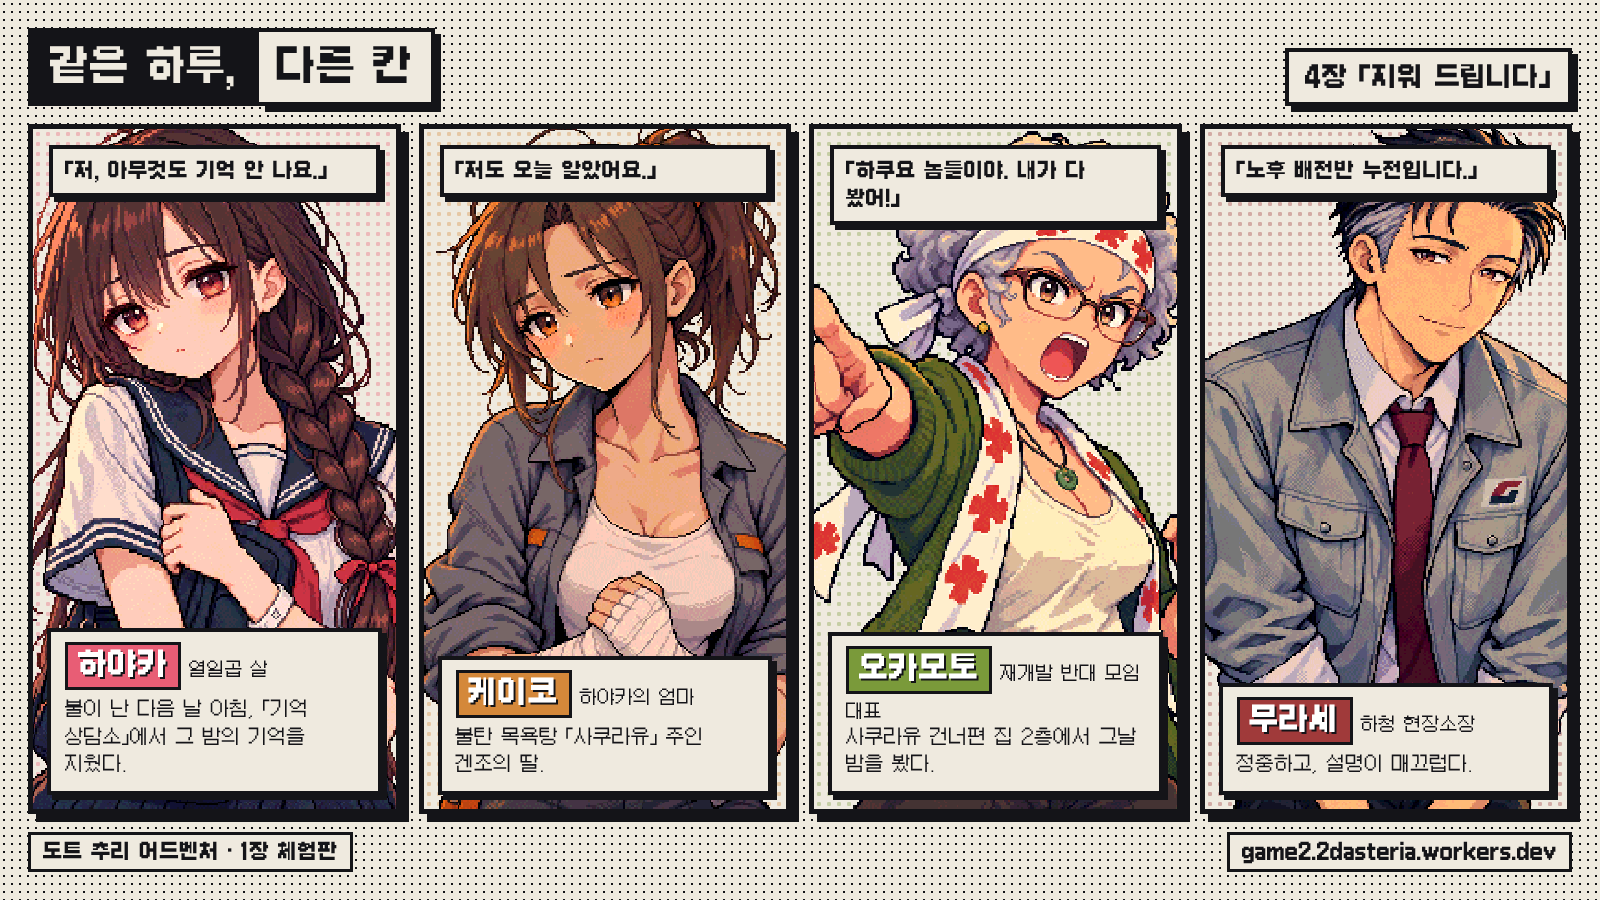
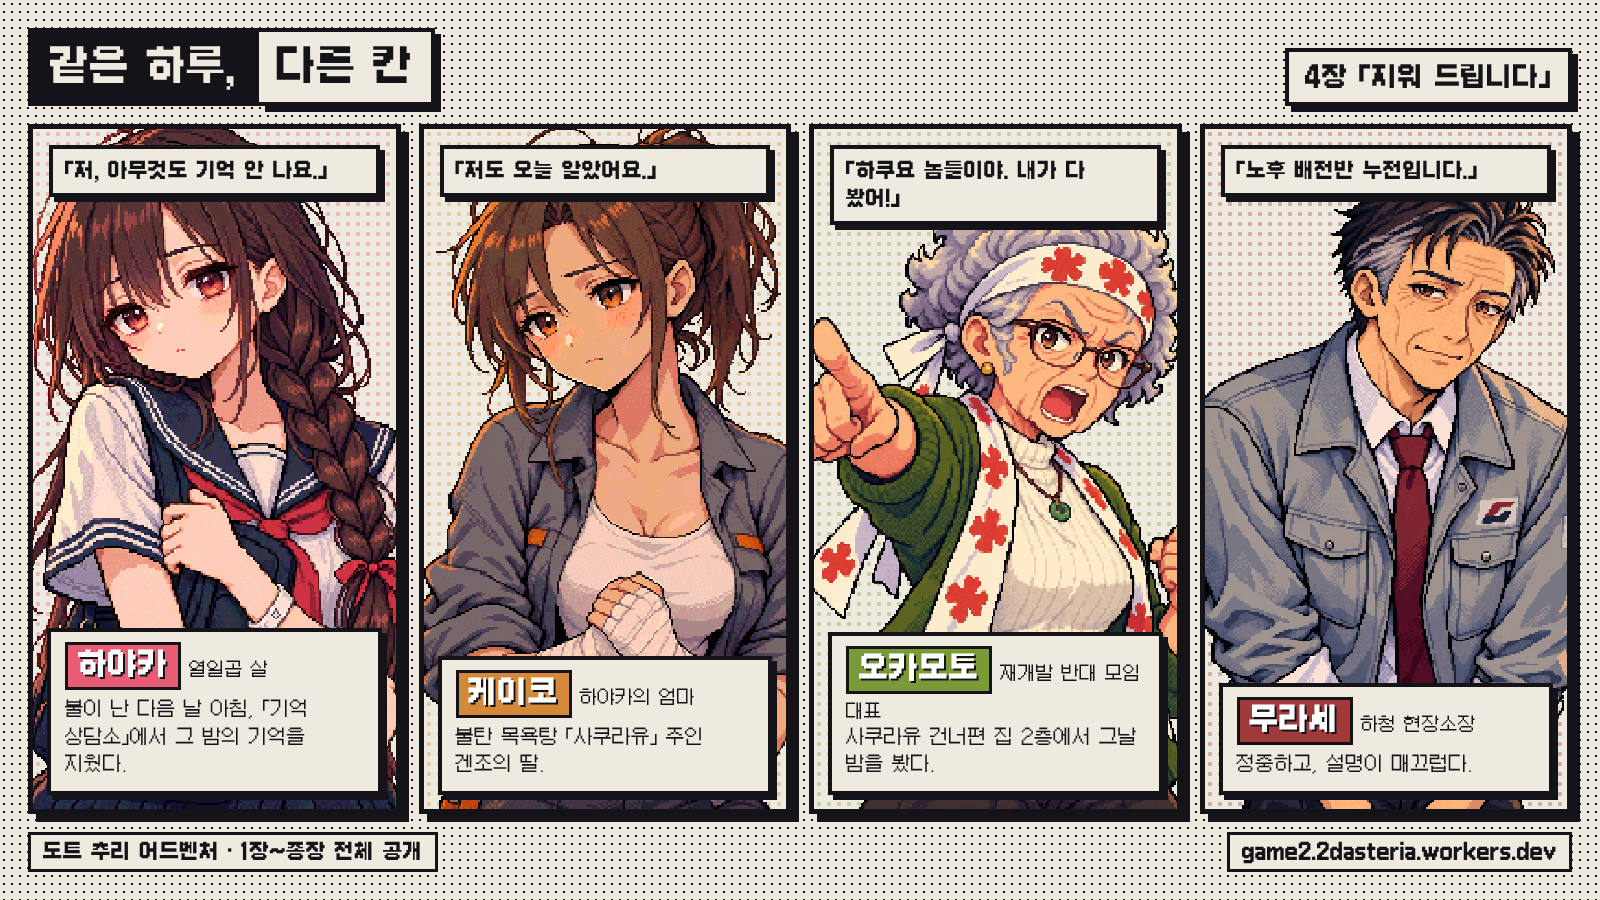
docs: 홍보글 전체 공개로, 가볍게 / 인물 소개 이미지 아래줄 '전체 공개'
Claude-Session: https://claude.ai/code/session_01Eau5AueyeKfEKTxNRbKjxr

diff --git a/promo/cast.html b/promo/cast.html
@@ -122,6 +122,6 @@ document.getElementById('page').innerHTML = `
         <div class="cap"><b>${name}</b><em>${role}</em><p>${desc}</p></div>
       </div>`).join('')}
   </div>
-  <footer><span>도트 추리 어드벤처 · 1장 체험판</span><span>game2.2dasteria.workers.dev</span></footer>`;
+  <footer><span>도트 추리 어드벤처 · 1장~종장 전체 공개</span><span>game2.2dasteria.workers.dev</span></footer>`;
 </script>
 </body>

diff --git a/promo/POST.md b/promo/POST.md
@@ -1,47 +1,45 @@
 # 홍보글
 
-## 짧은 버전 (트위터·X, 디스코드)
+## 짧은 버전 (X·디스코드)
 
-같은 밤을 기억하는 사람들의 "컷"이 서로 다르다.
-도트 추리 게임 「같은 하루, 다른 칸」 1장 체험판을 공개했습니다.
+혼자 만들던 도트 추리 게임, 끝까지 다 만들었어요 🔍
+「같은 하루, 다른 칸」 1장부터 종장까지 전부 공개!
 
-물건에 남은 잔상을 만화 컷으로 읽고, 순서를 맞추고, 틀린 증언에 컷을 들이밀어 깹니다.
-브라우저에서 바로, 설치 없이 30~60분.
+물건에 남은 기억이 만화 컷으로 보이는 수사관이
+컷 순서 맞추고, 거짓말하는 증인한테 컷 들이밀어서 사건을 풉니다.
 
+브라우저에서 바로 돼요. 폰은 가로로!
 ▶ https://game2.2dasteria.workers.dev/
 
 #인디게임 #추리게임 #도트
 
-(사진: 01_title → 04_trial → 05_puzzle → 06_cutin)
+(사진: 01_title → 07_cast_team → 04_trial → 06_cutin)
 
 ---
 
 ## 긴 버전 (커뮤니티 게시판)
 
-**제목:** [자작 게임] 도트 추리 게임 「같은 하루, 다른 칸」 1장 체험판 공개
+**제목:** 도트 추리 게임 「같은 하루, 다른 칸」 전 장 공개했어요
 
-혼자 만들고 있는 브라우저 추리 게임 1장을 공개합니다.
+안녕하세요, 혼자 만들던 브라우저 추리 게임이 드디어 끝까지 나왔어요.
 
-**어떤 게임이냐면**
-항구 도시 경찰서 구석 「잔상과」. 수사관 레이는 강한 감정이 남은 물건을 만지면 그 순간을 만화 컷 한 장으로 봅니다.
-문제는 컷에 시간이 안 적혀 있다는 것. 그리고 사람마다 같은 밤을 다르게 기억한다는 것.
+**이런 게임이에요**
+항구 도시 경찰서 구석 「잔상과」의 레이는 물건을 만지면 그 순간이 만화 컷 한 장으로 보여요.
+근데 컷엔 시간이 안 적혀 있고, 사람들은 같은 밤을 저마다 다르게 기억해요.
+그래서 컷 순서를 맞추고, 앞뒤 안 맞는 증언에 컷을 들이밀어서 깨는 게임이에요.
 
-1장 「낙하」는 맨션 5층에서 피아노 선생님이 떨어진 사건입니다.
-경비원은 "쿵 소리 나기 전에 배달원이 도망쳤다"고 하고, 배달원은 "무서워서 도망쳤다"는 말만 반복합니다.
+**뭐가 있냐면**
+- 사건 5개 + 종장, 장마다 새 규칙이 하나씩 (시각표, 잘린 증언, 편집된 기억…)
+- 그림만 보고 푸는 추리라 살짝 어려워요. 막히면 힌트 있어요
+- 엔딩 3개
+- 도트 그림이랑 직접 만든 FM 음악
 
-**하는 것**
-- 현장에서 물건을 골라 잔상(컷)을 읽는다
-- 모은 컷을 원고지 칸에 일어난 순서대로 배열한다
-- 증언을 듣다가 맞지 않는 곳에 컷을 들이밀어 반박한다. 말풍선이 빈 컷은 대사 조각을 채워야 증거가 된다
+**하는 법**
+- https://game2.2dasteria.workers.dev/ 접속하면 끝 (설치 없음)
+- PC·폰 다 돼요. 폰은 가로로 돌려 주세요
+- 타이틀 「장 선택」으로 원하는 장부터 할 수도 있어요
 
-설명 없이 그림만 보고 풀게 만들어서 쉬운 편은 아닙니다. 막히면 힌트가 두 번 있어요.
+해 보시고 막힌 데나 이상한 데 있으면 편하게 말해 주세요!
+설정 → [플레이 기록 내보내기] 파일 보내 주시면 진짜 큰 도움 돼요 🙏
 
-**정보**
-- 플레이: https://game2.2dasteria.workers.dev/ (PC·모바일 브라우저, 설치 없음)
-- 분량: 1장 30~60분, 자동 저장
-- 그림: PC-98 느낌 도트 / 음악: 직접 만든 FM 음원
-
-해 보시고 어디서 막혔는지, 어디가 어색했는지 알려 주시면 큰 도움이 됩니다.
-설정 → [플레이 기록 내보내기]로 기록 파일을 보내 주시면 더 좋고요.
-
-(사진 순서: 01_title, 02_office, 03_explore, 05_puzzle, 04_trial, 06_cutin)
+(사진 순서: 01_title, 07_cast_team, 03_explore, 05_puzzle, 04_trial, 06_cutin)
